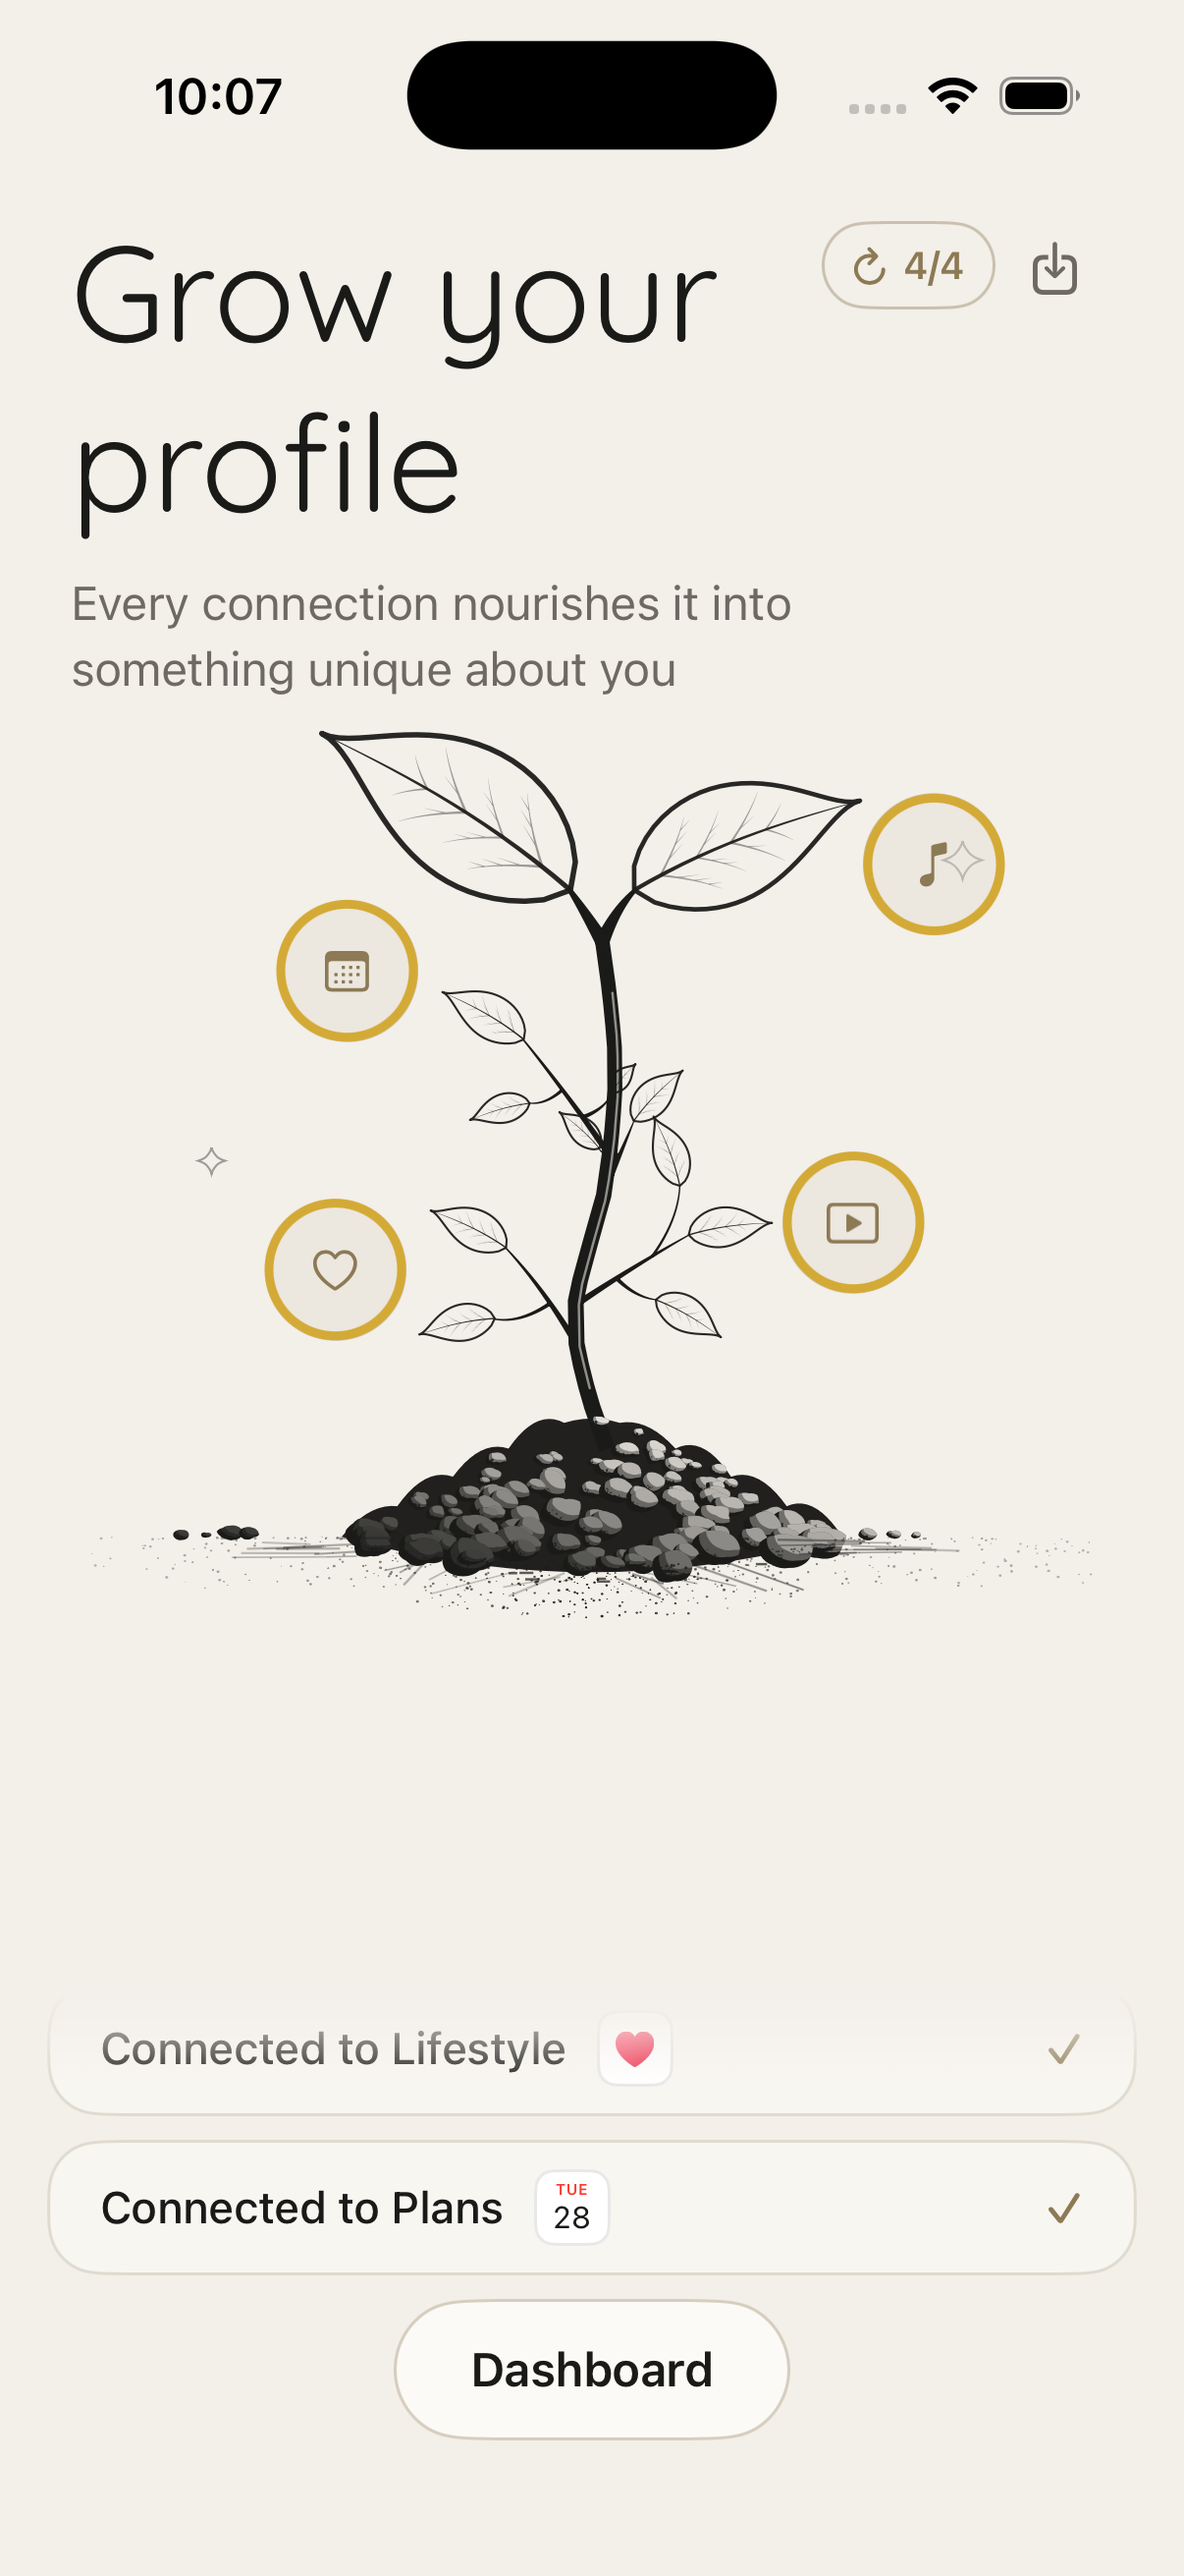
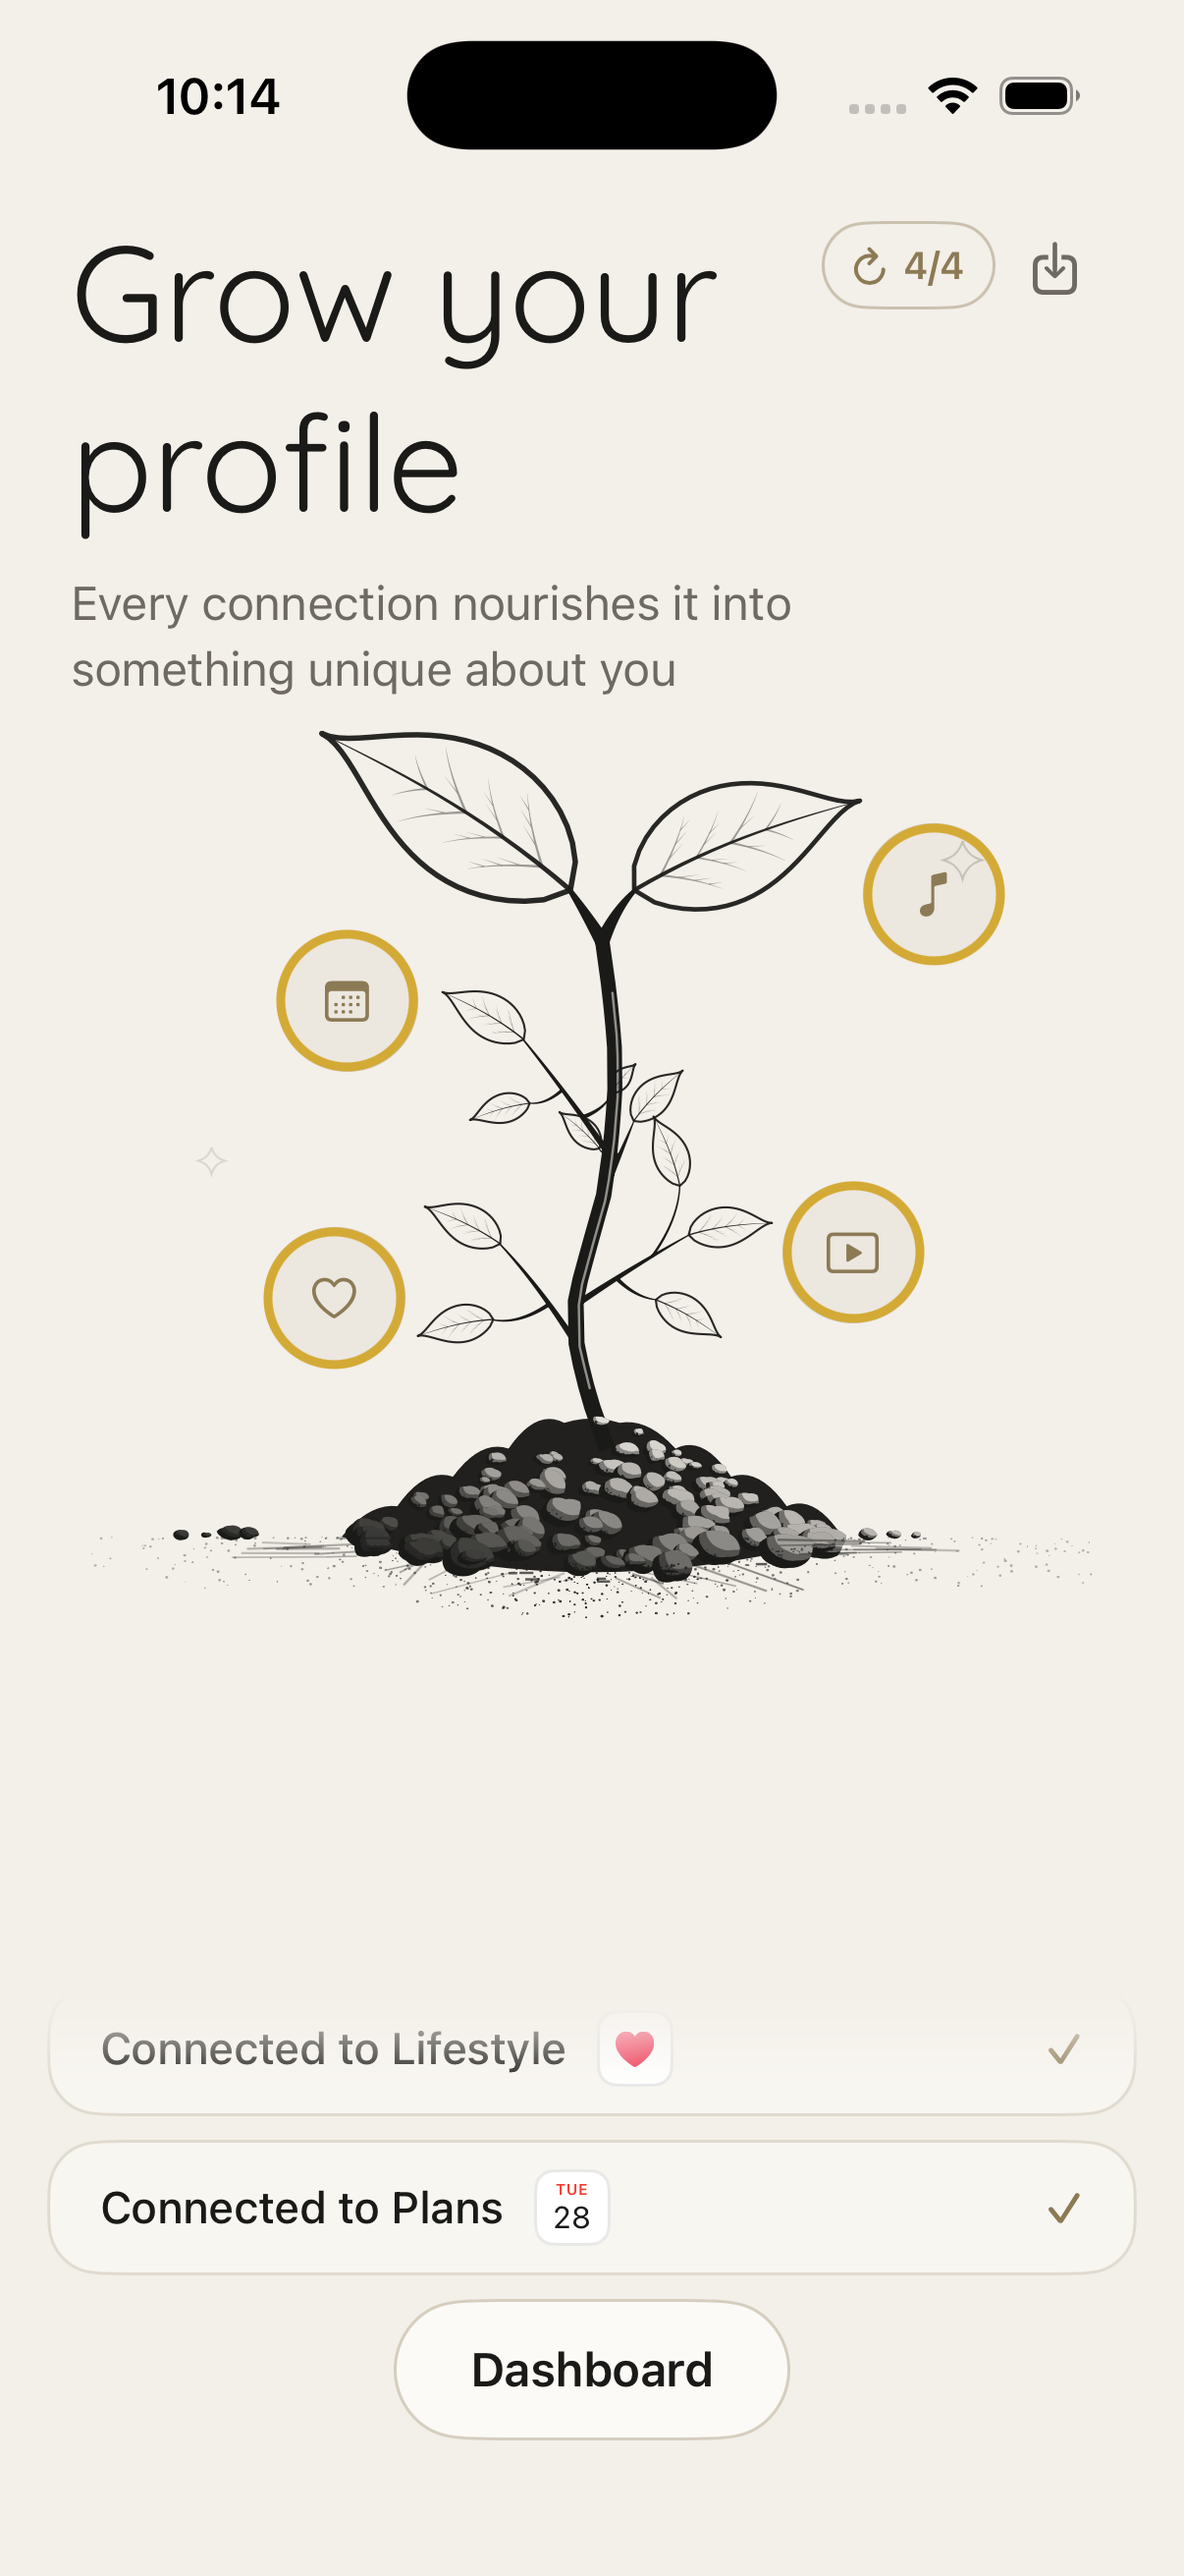
Turn L1's upper branch a degree and extend it a tenth
The rachis — the upper branch, running into the terminal leaf — turned one
degree counterclockwise and extended a tenth beyond the bifurcation.
(-0.0638, 0.0836) to (-0.0692, 0.0875).

Two things had to be got right rather than assumed.

The turn is applied to `reach`, not to the shoot's `turn`, which rotates
the sub-petiole and the lower leaf along with the rachis. Only the upper
branch was asked for. And `turned` counts positive as clockwise on screen,
so counterclockwise is a negative angle — invisible at one degree, which is
why it is worth checking rather than eyeballing after the fact.

Extending only the far segment means the rachis as a whole grows by less
than a tenth: 0.382 + 1.1 x 0.618 = 1.0618, since the stretch before the
branch point keeps its length. `along` is divided by the same figure, 0.382
to 0.360, so the branch point stays where it was put.

It does swing the degree the rachis turned, and the drawing cannot avoid
that: the rachis is one curve from stem to tip with no kink at the split,
so the far segment cannot turn without the near one. About 0.0007 of the
canvas at that radius.

Stages 1, 2 and 3 differ by 2, 0 and 0 pixels of ink.

diff --git a/Written/Views/Tree/SeedlingArt.swift b/Written/Views/Tree/SeedlingArt.swift
@@ -627,26 +627,36 @@ enum SeedlingArt {
             turn: 18,
             leaflets: shoots[0].leaflets
         ),
-        // L1 — the left-hand lowest branch. Both of its stalks run a tenth
-        // longer along their own directions, with the bifurcation held exactly
-        // where it is.
+        // L1 — the left-hand lowest branch.
         Shoot(
             id: 1,
             stage: .branch,
             attachment: 0.34,
-            // A tenth past (-0.058, 0.076), which carries the terminal leaf —
-            // the upper one — further up and left, since it sits at the tip.
-            reach: CGSize(width: -0.0638, height: 0.0836),
+            // The upper branch — the rachis, which runs into the terminal leaf
+            // — turned a degree counterclockwise and then extended a tenth
+            // *beyond the bifurcation*, from (-0.0638, 0.0836).
+            //
+            // Extending only the far segment means the rachis as a whole grows
+            // by less than a tenth: 0.382 + 1.1 × 0.618 = 1.0618 of its length,
+            // since the stretch before the branch point keeps its size.
+            //
+            // The turn is applied to `reach` rather than to `turn`, which would
+            // swing the sub-petiole and the lower leaf with it. Only the upper
+            // branch was asked for.
+            reach: CGSize(width: -0.0692, height: 0.0875),
             turn: 0,
             leaflets: [
                 Leaflet(mirrored: false, axis: -50, scale: 0.26, along: 1, stalkRun: .zero),
-                // `along` divided by the same tenth the rachis grew by, 0.42 to
-                // 0.382. It is a *fraction* of the rachis, so leaving it alone
-                // while the rachis lengthens would carry the bifurcation out
-                // with the tip — and the bifurcation is where it should be.
-                // Shrinking it in step keeps that point still while the stalk
-                // beyond it extends.
-                Leaflet(mirrored: false, axis: -88, scale: 0.24, along: 0.382,
+                // Divided by that same 1.0618, 0.382 to 0.360. `along` is a
+                // fraction of the rachis rather than a distance, so leaving it
+                // alone while the rachis lengthens carries the branch point out
+                // with the tip — and the branch point is where it should be.
+                //
+                // It does swing the degree the rachis turned, which the drawing
+                // cannot avoid: the rachis is one curve from stem to tip with no
+                // kink at the split, so the far segment cannot turn without the
+                // near one. At this radius that is about 0.0007 of the canvas.
+                Leaflet(mirrored: false, axis: -88, scale: 0.24, along: 0.360,
                         stalkRun: CGSize(width: -0.0506, height: 0.0154))
             ]
         ),
